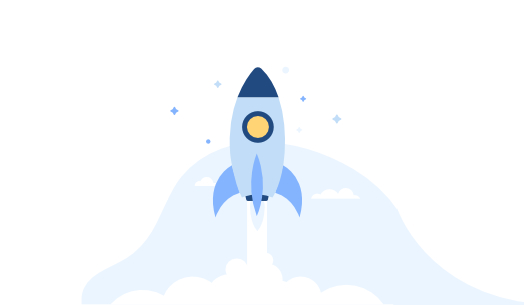
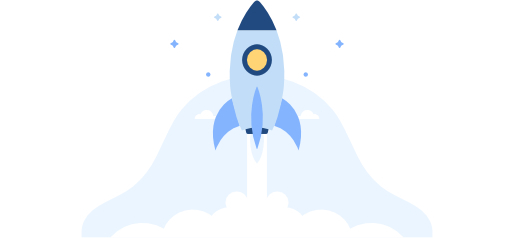
Added coming soon section.

diff --git a/src/.vuepress/styles/index.scss b/src/.vuepress/styles/index.scss
@@ -11,4 +11,6 @@ $button-padding-base: 0.5rem 2rem;
 @import '~@inkline/inkline/src/components/IRow/style';
 @import '~@inkline/inkline/src/components/IColumn/style';
 @import '~@inkline/inkline/src/components/ICard/style';
+@import '~@inkline/inkline/src/components/IListGroup/style';
+@import '~@inkline/inkline/src/components/IListGroupItem/style';
 

diff --git a/src/README.md b/src/README.md
@@ -107,11 +107,11 @@ immudb has been developed with performance, scalability and versatility in mind.
 
 
 <!-- TERMINAL SECTIONS START -->
-<section id="code-examples">
+<section class="section" id="code-examples">
 <i-container>
 
 <!-- TERMINAL SECTION 1 START -->
-<i-row class="section">
+<i-row class="section _padding-top-0">
 <i-column lg="5">
 <img :src="$withBase('/features/real-world.svg')" alt="Immudb - Made for the real world" />
 
@@ -213,12 +213,45 @@ printItem(nil, nil, verifiedItem)
 </section>
 <!-- TERMINAL SECTIONS END -->
 
+<hr/>
+
+<section class="section" id="comingsoon">
+<i-container>
+<i-row>
+<i-column>
+<div class="section-center _padding-bottom-4">
+
+<img class="_margin-bottom-4" width="400" :src="$withBase('/rocket.jpg')" alt="Coming Soon" />
+
+## Coming soon
+We're working hard every day to improve immudb and everything it has to offer. Here are some of the features we're planning to release:
+
+</div>
+</i-column>
+</i-row>
+<i-row>
+<i-column class="_text-center lead  _font-weight-semibold">
+    <ul class="list -inline">
+        <li>rsyslog integration</li>
+        <li class="_text-muted">&middot;</li>
+        <li>log4j integration</li>
+        <li class="_text-muted">&middot;</li>
+        <li>PostgreSQL listener</li>
+    </ul>
+</i-column>
+</i-row>
+</i-container>
+</section>
+
+<hr class="_margin-0"/>
 
 <section class="section" id="usedby">
     <i-container>
         <i-row>
             <i-column>
-                <img :src="$withBase('/logos/codenotary.png')" width="150" alt="Immudb - Written records per ms" />
+                <a href="https://codenotary.io" target="_blank">
+                    <img :src="$withBase('/logos/codenotary.png')" width="150" alt="CodeNotary" />
+                </a>
             </i-column>
         </i-row>
     </i-container>
